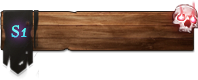
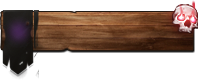
12:00 AM 10/22/2020

diff --git a/css/main.css b/css/main.css
@@ -138,7 +138,7 @@ body{
 
 */
 .menux{
-  margin-bottom: -270px;
+  margin-bottom: -15%;
 }
 .cop{
   width: 90%;
@@ -220,6 +220,15 @@ body{
   color: #f5c899;
 }
 
+.img-p{
+  font-family: CelestiaItalic;
+  color: #cfa57a;
+  text-align: center;
+  margin-top: -66px;
+  font-size: 25px;
+  text-transform: uppercase;
+}
+
 
 
 
@@ -261,7 +270,7 @@ body{
 }
  
 .login-f{
- 
+  position: absolute;
   background-color: #191108; 
   right: 0;
   width: 100%;
@@ -269,11 +278,27 @@ body{
   border-top: none;
   margin-top: 51px;
   padding: 20px 15px 15px 15px;
-  width: 200px;
-  margin-left: 85px;
+  width: 200px; 
   border-bottom: none;
   height: 241px;
+  margin-right: -40px; 
 }
+
+.login-f:after{
+  content: "";
+  position: absolute;
+  background-color: #1f1305;
+  height: 15px;
+  right: 0; 
+  border: 2px solid #39220a;  
+  border-right: none;
+  margin-top: 15px; 
+  width: 245px;
+  margin-right: -32px;
+  z-index: -1;
+}
+
+
 
 .login-f input{
   background-color: #221406;
@@ -292,20 +317,6 @@ body{
   outline: none;
 }
 
-
-.login-f:after{
-  content: "";
-  position: absolute;
-  background-color: #1f1305;
-  height: 15px;
-  right: 0; 
-  border: 2px solid #39220a;  
-  border-right: none;
-  margin-top: 15px; 
-  width: 245px;
-  margin-right: -70px;
-  z-index: -1;
-}
 
 
 
@@ -374,12 +385,12 @@ a.forget{
   text-align: center;
   background: url(../images/btt.png);
   background-size: 221px 100%;
-  background-repeat: no-repeat;
-  display: block;
-  width: 100%;
-  padding: 5px;
-  margin-left: 74px; 
-
+  background-repeat: no-repeat; 
+  width: 221px;
+  padding: 5px; 
+  position: absolute;
+  right: 0;
+  margin-right: -46px;
 }
 
 .txt-menu a{
@@ -501,6 +512,8 @@ a.forget{
   z-index: -2;
 }
 
+
+
 .login-f2 input{
   background-color: #221406;
   border:none;
@@ -527,8 +540,7 @@ a.forget{
   background: url(../images/btt2.png);
   background-size: 221px 100%;
   background-repeat: no-repeat;
-  display: block;
-  width: 100%;
+  width: 221px;
   padding: 5px;
   margin-left: -61px;  
 }
@@ -590,9 +602,10 @@ a.forget{
   border-top: none; 
   padding: 20px 15px 15px 15px;
   width: 200px;
-  margin-left: 85px;
+  margin-right: -35px;
   border-bottom: none;
   height: 241px;
+  position: absolute;
 } 
 
 .div-f:after{
@@ -605,7 +618,7 @@ a.forget{
   border-right: none;
   margin-top: 15px; 
   width: 245px;
-  margin-right: -70px;
+  margin-right: -38px;
   z-index: -1;
   margin-top: 220px;
 }
@@ -667,7 +680,7 @@ a.forget{
 .set-aa{ 
   margin-top: 21px;
   position: absolute;
-  top: 50%;
+  margin-top: 0px;
   left: 50%;
   margin-right: -50%;
   transform: translate(-50%, -50%);
@@ -684,11 +697,29 @@ a.forget{
 }
 .modal-body .server-m{
   padding: 20px 60px;
+  height: 620px;
+  overflow: auto;
 }
 .modal-body .server-m h3{
   font-family: pslkanda-moextra;
   color: #c6aa8d; 
   margin-bottom: 10px;
+}
+ 
+.modal-body .server-m::-webkit-scrollbar {
+  width: 20px;
+}
+.modal-body .server-m::-webkit-scrollbar-track {
+  background: #231609; 
+}
+.modal-body .server-m::-webkit-scrollbar-thumb {
+  
+  background: #826b4d; 
+  border: 2px solid #d5b280;
+}
+
+.modal-body .server-m::-webkit-scrollbar-thumb:hover {
+  background: #826b4d; 
 }
 
 .sev{
@@ -700,6 +731,41 @@ a.forget{
   height: 80px;
   background-repeat: no-repeat;
   background-size: 198px  80px;
+  text-transform: capitalize;
+}
+.sev.s1 p{
+  position: absolute;
+  font-family: CelestiaItalic;
+  font-size: 18px;
+  text-transform: capitalize;
+  margin-left: -40px;
+  color: #5de2e0;
+}
+
+.sev.s2 p{
+  position: absolute;
+  font-family: CelestiaItalic;
+  font-size: 18px;
+  text-transform: capitalize;
+  margin-left: -40px;
+}
+
+
+.sev.s1-o p{
+  position: absolute;
+  font-family: CelestiaItalic;
+  font-size: 18px;
+  text-transform: capitalize;
+  margin-left: -40px;
+  color: #5de2e0;
+}
+
+.sev.s2-o p{
+  position: absolute;
+  font-family: CelestiaItalic;
+  font-size: 18px;
+  text-transform: capitalize;
+  margin-left: -40px;
 }
 
 
@@ -711,10 +777,10 @@ a.forget{
 }
 
 .s2{
-  background-image: url(../images/s2-1.png);
+  background-image: url(../images/s1-1.png);
 }
 .s2:hover{
-  background-image: url(../images/s2-2.png);  
+  background-image: url(../images/s1-2.png);  
 }
 .s1-o{
   background-image: url(../images/s1-1o.png);
@@ -724,8 +790,8 @@ a.forget{
 }
 
 .s2-o{
-  background-image: url(../images/s2-1o.png);
+  background-image: url(../images/s1-1o.png);
 }
 .s2-o:hover{
-  background-image: url(../images/s2-2o.png);  
+  background-image: url(../images/s1-2o.png);  
 }

diff --git a/index.html b/index.html
@@ -108,6 +108,19 @@
                             </div>
 
                             <div class="clearfix">&nbsp;</div>  
+                            <div class="clearfix">&nbsp;</div>  
+                            <div class="clearfix">&nbsp;</div>  
+                            <div class="clearfix">&nbsp;</div>  
+                            <div class="clearfix">&nbsp;</div>  
+
+                            <div class="clearfix">&nbsp;</div>  
+                            <div class="clearfix">&nbsp;</div>  
+                            <div class="clearfix">&nbsp;</div>  
+                            <div class="clearfix">&nbsp;</div>  
+                            <div class="clearfix">&nbsp;</div>  
+                            <div class="clearfix">&nbsp;</div>  
+                            <div class="clearfix">&nbsp;</div>  
+                            <div class="clearfix">&nbsp;</div>   
 
                             <div class="col txt-menu cc cc1">
                                 <a href="#">
@@ -115,11 +128,19 @@
                                 </a>
                             </div>
 
+                            <div class="clearfix">&nbsp;</div>
+                            <div class="clearfix">&nbsp;</div>
+                            <div class="clearfix">&nbsp;</div>
+
                             <div class="col txt-menu cc cc2">
                                 <a href="#">
                                     ใส่ไอเทมโค้ดที่นี่
                                 </a>
                             </div>
+
+                            <div class="clearfix">&nbsp;</div>
+                            <div class="clearfix">&nbsp;</div>
+                            <div class="clearfix">&nbsp;</div>
 
                             <div class="col txt-menu cc cc3">
                                 <a href="#">
@@ -127,17 +148,29 @@
                                 </a>
                             </div>
 
+                            <div class="clearfix">&nbsp;</div>
+                            <div class="clearfix">&nbsp;</div>
+                            <div class="clearfix">&nbsp;</div>
+
                             <div class="col txt-menu cc cc4">
                                 <a href="#">
                                     กลุ่มพูดคุย
                                 </a>
                             </div>
 
+                            <div class="clearfix">&nbsp;</div>
+                            <div class="clearfix">&nbsp;</div>
+                            <div class="clearfix">&nbsp;</div>
+
                             <div class="col txt-menu cc cc5">
                                 <a href="#">
                                     FACEBOOK
                                 </a>
                             </div>
+
+                            <div class="clearfix">&nbsp;</div>
+                            <div class="clearfix">&nbsp;</div>
+                            <div class="clearfix">&nbsp;</div>
 
                             <div class="div-f">
                                 
@@ -459,6 +492,25 @@
                                     </div>
                                 </a>
                             </div>
+
+                            <div class="col-6">
+                                <a href="#">
+                                    <div class="sev s2">
+                                        <p>s2</p>
+                                        text
+                                    </div>
+                                </a>
+                            </div>
+                            <div class="col-6">
+                                <a href="#">
+                                    <div class="sev s2-o">
+                                        <p>s2</p>
+                                        text
+                                    </div>
+                                </a>
+                            </div>
+
+                            
 
                             
 
